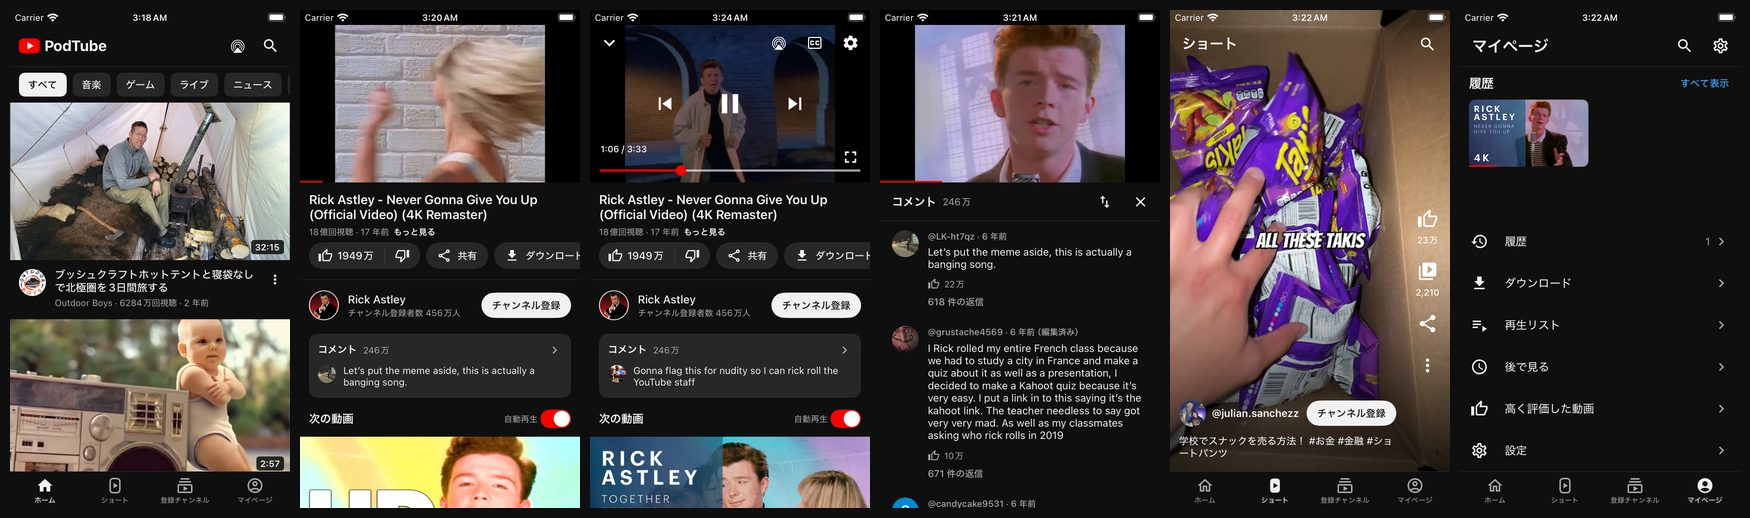
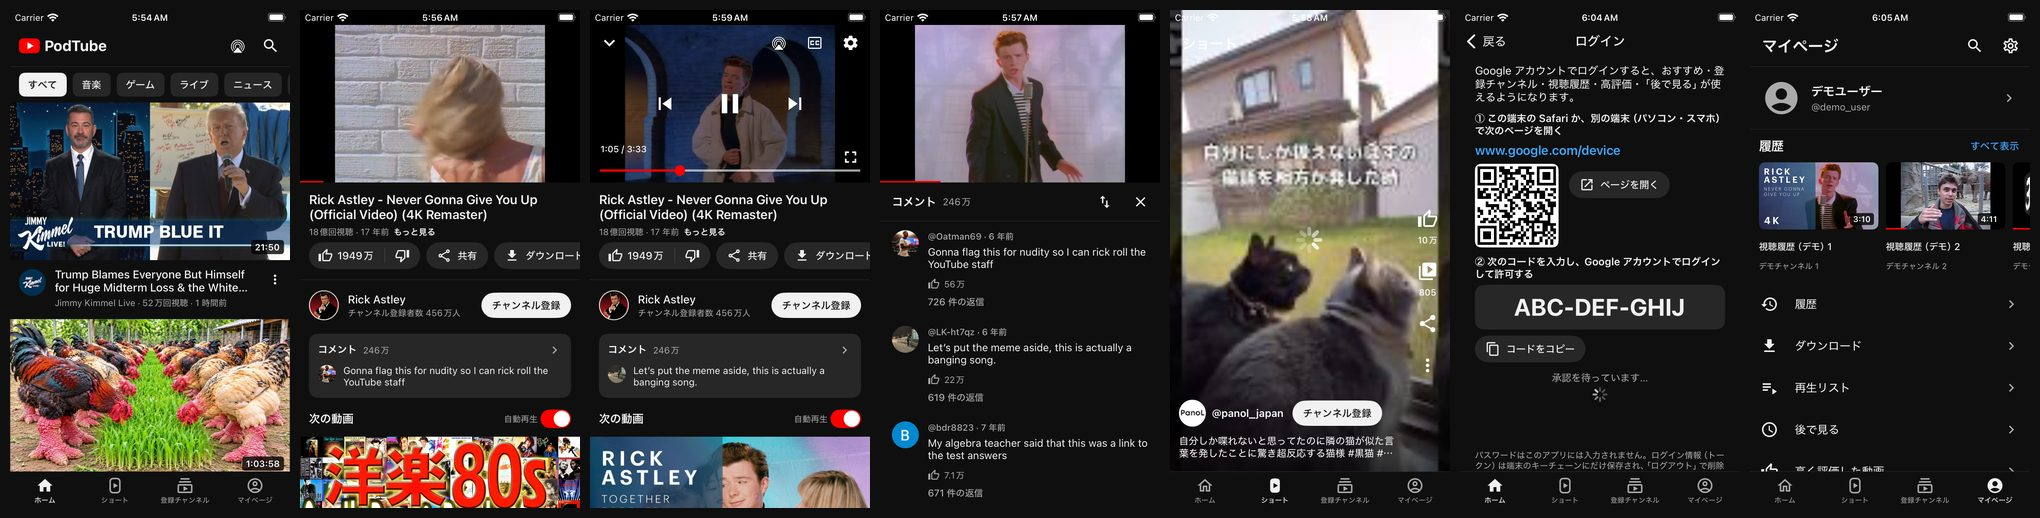
Account header: shrink the title to fit 320 pt, README montage shows sign-in and the signed-in page
"Google アカウントでログイン" was cut off to "…でロ…" on a 320 pt screen. The README
montage now includes the sign-in screen and the signed-in My page (demo data).

Claude-Session: https://claude.ai/code/session_01HAjRXKPezs6ic5fzqcfvny

diff --git a/PodTube/Sources/App/AccountViews.swift b/PodTube/Sources/App/AccountViews.swift
@@ -15,6 +15,8 @@ final class AccountHeaderView: UIControl {
         avatar.clipsToBounds = true
         avatar.layer.cornerRadius = 26
         nameLabel.font = Theme.font(17, .semibold)
+        nameLabel.adjustsFontSizeToFitWidth = true // "Google アカウントでログイン" is wider than the 320 pt column
+        nameLabel.minimumScaleFactor = 0.75
         subLabel.font = Theme.font(13)
         subLabel.numberOfLines = 2
         chevron.image = Icons.image("chevron_right", size: 22)
